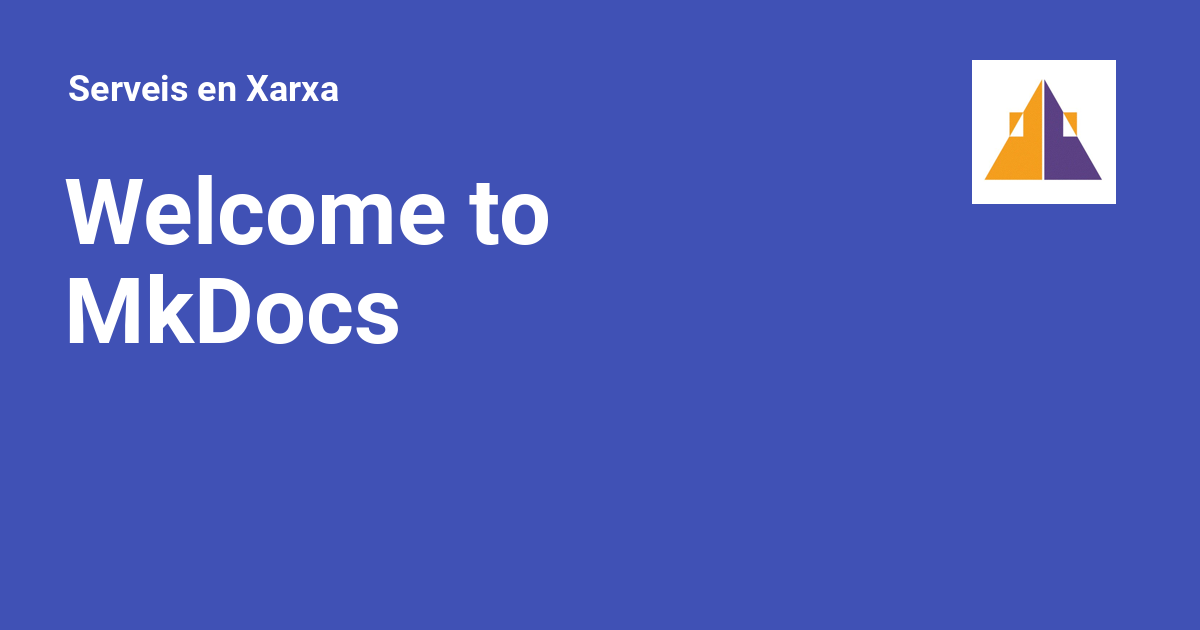
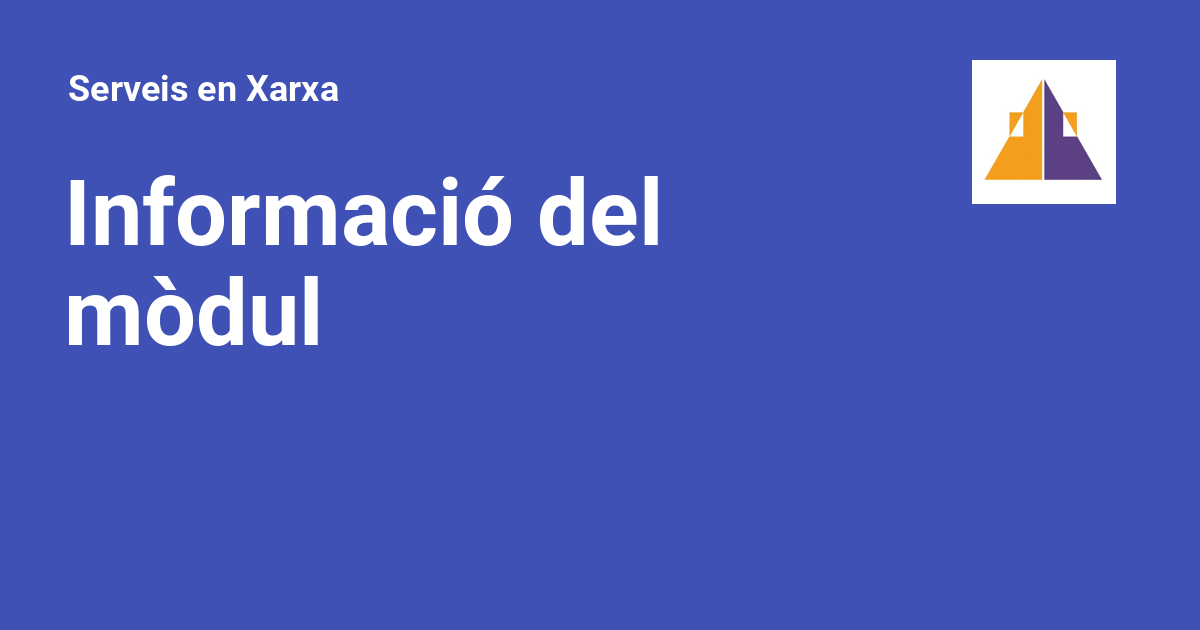
Actualització

Changed region(s): [[0.0308, 0.2714, 0.555, 0.3921], [0.0617, 0.4222, 0.3392, 0.573]]

diff --git a/index.html b/index.html
@@ -20,7 +20,7 @@
     
     
       
-        <title>Serveis en Xarxa</title>
+        <title>Informació del mòdul - Serveis en Xarxa</title>
       
     
     
@@ -65,7 +65,7 @@
       
         <meta  property="og:type"  content="website" >
       
-        <meta  property="og:title"  content="Welcome to MkDocs" >
+        <meta  property="og:title"  content="Informació del mòdul" >
       
         <meta  property="og:description"  content="None" >
       
@@ -81,7 +81,7 @@
       
         <meta  name="twitter:card"  content="summary_large_image" >
       
-        <meta  name="twitter:title"  content="Welcome to MkDocs" >
+        <meta  name="twitter:title"  content="Informació del mòdul" >
       
         <meta  name="twitter:description"  content="None" >
       
@@ -108,7 +108,7 @@
     <div data-md-component="skip">
       
         
-        <a href="#welcome-to-mkdocs" class="md-skip">
+        <a href="#professorat" class="md-skip">
           Salta el contingut
         </a>
       
@@ -143,7 +143,7 @@
         <div class="md-header__topic" data-md-component="header-topic">
           <span class="md-ellipsis">
             
-              Welcome to MkDocs
+              Informació del mòdul
             
           </span>
         </div>
@@ -235,6 +235,8 @@
           
             
               
+                
+              
               <div class="md-sidebar md-sidebar--primary" data-md-component="sidebar" data-md-type="navigation" >
                 <div class="md-sidebar__scrollwrap">
                   <div class="md-sidebar__inner">
@@ -302,7 +304,9 @@
             
             
               
-              <div class="md-sidebar md-sidebar--secondary" data-md-component="sidebar" data-md-type="toc" >
+                
+              
+              <div class="md-sidebar md-sidebar--secondary" data-md-component="sidebar" data-md-type="toc" hidden>
                 <div class="md-sidebar__scrollwrap">
                   <div class="md-sidebar__inner">
                     
@@ -310,8 +314,6 @@
 <nav class="md-nav md-nav--secondary" aria-label="Taula de continguts">
   
   
-  
-    
   
   
     <label class="md-nav__title" for="__toc">
@@ -321,18 +323,36 @@
     <ul class="md-nav__list" data-md-component="toc" data-md-scrollfix>
       
         <li class="md-nav__item">
-  <a href="#commands" class="md-nav__link">
+  <a href="#professorat" class="md-nav__link">
     <span class="md-ellipsis">
-      Commands
+      Professorat
     </span>
   </a>
   
 </li>
       
         <li class="md-nav__item">
-  <a href="#project-layout" class="md-nav__link">
+  <a href="#serveis-en-xarxa" class="md-nav__link">
     <span class="md-ellipsis">
-      Project layout
+      Serveis en Xarxa
+    </span>
+  </a>
+  
+</li>
+      
+        <li class="md-nav__item">
+  <a href="#continguts" class="md-nav__link">
+    <span class="md-ellipsis">
+      Continguts
+    </span>
+  </a>
+  
+</li>
+      
+        <li class="md-nav__item">
+  <a href="#avaluacio" class="md-nav__link">
+    <span class="md-ellipsis">
+      Avaluació
     </span>
   </a>
   
@@ -353,24 +373,33 @@
                   
 
 
-<h1 id="welcome-to-mkdocs">Welcome to MkDocs</h1>
-<p>For full documentation visit <a href="https://www.mkdocs.org">mkdocs.org</a>.</p>
-<h2 id="commands">Commands</h2>
+  <h1>Informació del mòdul</h1>
+
+<h2 id="professorat"><span class="twemoji"><svg xmlns="http://www.w3.org/2000/svg" viewBox="0 0 448 512"><!--! Font Awesome Free 6.5.2 by @fontawesome - https://fontawesome.com License - https://fontawesome.com/license/free (Icons: CC BY 4.0, Fonts: SIL OFL 1.1, Code: MIT License) Copyright 2024 Fonticons, Inc.--><path d="M219.3.5c3.1-.6 6.3-.6 9.4 0l200 40C439.9 42.7 448 52.6 448 64s-8.1 21.3-19.3 23.5L352 102.9V160c0 70.7-57.3 128-128 128S96 230.7 96 160v-57.1l-48-9.6v65.1l15.7 78.4c.9 4.7-.3 9.6-3.3 13.3S52.8 256 48 256H16c-4.8 0-9.3-2.1-12.4-5.9s-4.3-8.6-3.3-13.3L16 158.4V86.6C6.5 83.3 0 74.3 0 64c0-11.4 8.1-21.3 19.3-23.5l200-40zM111.9 327.7c10.5-3.4 21.8.4 29.4 8.5l71 75.5c6.3 6.7 17 6.7 23.3 0l71-75.5c7.6-8.1 18.9-11.9 29.4-8.5 65 20.9 112 81.7 112 153.6 0 17-13.8 30.7-30.7 30.7H30.7C13.8 512 0 498.2 0 481.3c0-71.9 47-132.7 111.9-153.6z"/></svg></span> Professorat</h2>
 <ul>
-<li><code>mkdocs new [dir-name]</code> - Create a new project.</li>
-<li><code>mkdocs serve</code> - Start the live-reloading docs server.</li>
-<li><code>mkdocs build</code> - Build the documentation site.</li>
-<li><code>mkdocs -h</code> - Print help message and exit.</li>
+<li><a href="https://pgalera.github.io">Paco Galera</a></li>
 </ul>
-<h2 id="project-layout">Project layout</h2>
-<div class="highlight"><table class="highlighttable"><tr><th colspan="2" class="filename"><span class="filename">Text Only</span></th></tr><tr><td class="linenos"><div class="linenodiv"><pre><span></span><span class="normal">1</span>
-<span class="normal">2</span>
-<span class="normal">3</span>
-<span class="normal">4</span></pre></div></td><td class="code"><div><pre><span></span><code>mkdocs.yml    # The configuration file.
-docs/
-    index.md  # The documentation homepage.
-    ...       # Other markdown pages, images and other files.
-</code></pre></div></td></tr></table></div>
+<h2 id="serveis-en-xarxa"><span class="twemoji"><svg xmlns="http://www.w3.org/2000/svg" viewBox="0 0 24 24"><path d="M13 19h1a1 1 0 0 1 1 1h7v2h-7a1 1 0 0 1-1 1h-4a1 1 0 0 1-1-1H2v-2h7a1 1 0 0 1 1-1h1v-2H4a1 1 0 0 1-1-1v-4a1 1 0 0 1 1-1h16a1 1 0 0 1 1 1v4a1 1 0 0 1-1 1h-7v2M4 3h16a1 1 0 0 1 1 1v4a1 1 0 0 1-1 1H4a1 1 0 0 1-1-1V4a1 1 0 0 1 1-1m5 4h1V5H9v2m0 8h1v-2H9v2M5 5v2h2V5H5m0 8v2h2v-2H5Z"/></svg></span> Serveis en Xarxa</h2>
+<ul>
+<li>2n Sistemes Microinformàtics i en Xarxa (<strong>SMX</strong>)</li>
+<li>IES Jaume II el Just</li>
+<li>Tavernes de la Valldigna</li>
+<li><a href="https://aules.edu.gva.es/fp/course/view.php?id=114059">AULES</a></li>
+</ul>
+<h2 id="continguts"><span class="twemoji"><svg xmlns="http://www.w3.org/2000/svg" viewBox="0 0 24 24"><path d="M9 3v15h3V3H9m3 2 4 13 3-1-4-13-3 1M5 5v13h3V5H5M3 19v2h18v-2H3Z"/></svg></span> Continguts</h2>
+<ol>
+<li><em>Pròximament</em></li>
+</ol>
+<h2 id="avaluacio"><span class="twemoji"><svg xmlns="http://www.w3.org/2000/svg" viewBox="0 0 24 24"><path d="M20.71 7.04c.39-.39.39-1.04 0-1.41l-2.34-2.34c-.37-.39-1.02-.39-1.41 0l-1.84 1.83 3.75 3.75M3 17.25V21h3.75L17.81 9.93l-3.75-3.75L3 17.25Z"/></svg></span> Avaluació</h2>
+<ul>
+<li><em>Pròximament</em></li>
+</ul>
+<div class="admonition danger">
+<p class="admonition-title">Consideracions</p>
+<ul>
+<li><em>Pròximament</em></li>
+</ul>
+</div>
 
 
 
@@ -385,6 +414,8 @@ docs/
 
   
 
+
+  
 
 
 
